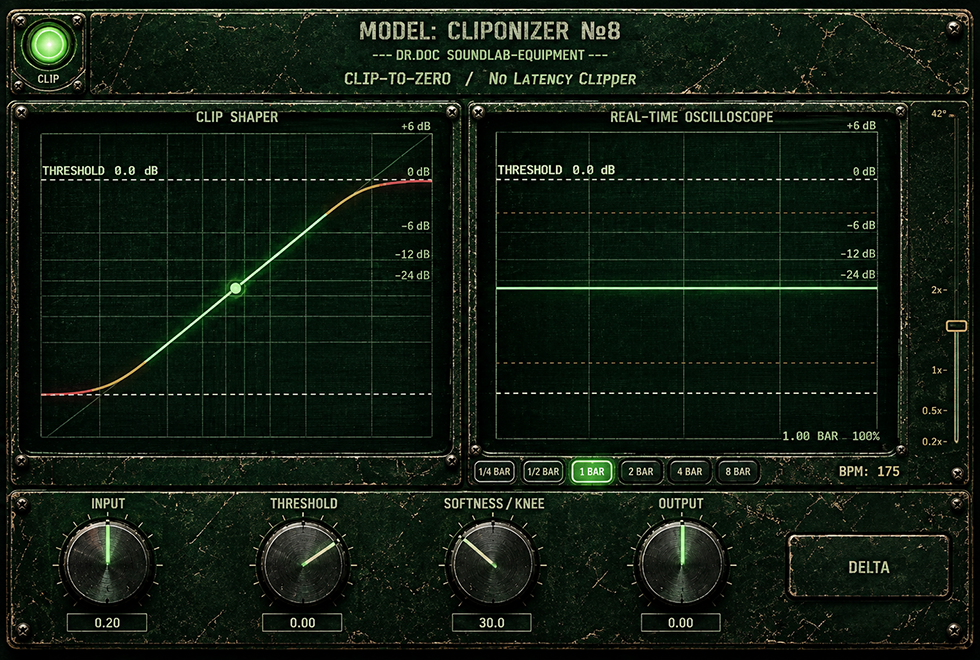
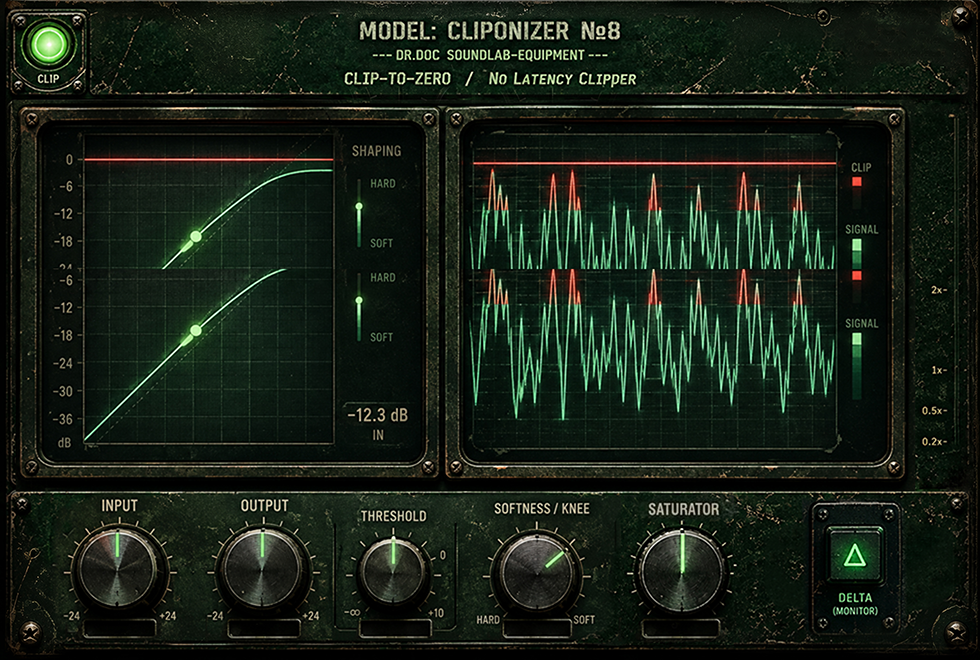
36new

Changed region(s): [[0.0, 0.0, 1.0, 1.0]]

diff --git a/WebUI/style.css b/WebUI/style.css
@@ -74,8 +74,8 @@ html, body {
     border-radius: 50%;
     background: var(--ledOff);
     border: 1.5px solid rgba(255,255,255,0.25);
-    top: -12px;
-    left: -1px;
+    top: -4px;
+    left: 1px;
     position: relative;
 }
 
@@ -104,18 +104,35 @@ html, body {
   flex: 1;
   min-height: 0;
   display: flex;
-  gap: 12px;
+  gap: 35px;
   margin-top: 35px;
 }
-
 .scopePanel {
-  position: relative;
-  flex: 1;
-  min-width: 0;
-  background: #0c0f0cc2;
-  border: 1.5px solid var(--metalEdge);
-  border-radius: 6px;
-  padding: 26px;
+    position: relative;
+    /* flex: 1; */
+    min-width: 0;
+    background: #0c0f0cc2;
+    border: 1.5px solid var(--metalEdge);
+    border-radius: 20px;
+    padding: 26px;
+    height: 338px;
+    width: 383px;
+    top: 6px;
+    left: 27px;
+}
+
+.scopePanel2 {
+    position: relative;
+    /* flex: 1; */
+    min-width: 0;
+    background: #0c0f0cc2;
+    border: 1.5px solid var(--metalEdge);
+    border-radius: 20px;
+    padding: 26px;
+    height: 338px;
+    width: 427px;
+    top: 6px;
+    left: 29px;
 }
 
 .panelTitle {
@@ -148,7 +165,6 @@ canvas {
   position: absolute;
   left: 26px;
   right: 26px;
-  bottom: 2px;
   height: 14px;
   display: flex;
   align-items: center;
@@ -195,11 +211,14 @@ canvas {
 /* ZOOM STRIP                                                        */
 /* ---------------------------------------------------------------- */
 #zoomStrip {
-  flex: 0 0 34px;
-  display: flex;
-  flex-direction: column;
-  align-items: center;
-  padding: 8px 0;
+    /* flex: 0 0 34px; */
+    display: flex;
+    align-items: center;
+    /* padding: 8px 0; */
+    left: 46px;
+    position: relative;
+    flex-direction: column;
+    height: 348px;
 }
 #zoomSlider {
   flex: 1;
@@ -244,6 +263,73 @@ canvas {
   position: relative;
   cursor: ns-resize;
 }
+
+#knobInput {
+    left: 29px;
+    top: 4px;
+    transform: scale(1.2);
+}
+
+#knobOutput {
+    left: 13px;
+    top: 5px;
+    transform: scale(1.2);
+}
+
+#knobThreshold {
+    left: -16px;
+    top: 5px;
+    transform: scale(0.9);
+}
+
+#knobSoftness {
+    left: -32px;
+    top: 8px;
+    transform: scale(1.2);
+}
+
+#knobSaturator {
+    left: -47px;
+    top: 5px;
+    transform: scale(1.2);
+}
+
+#valInput {
+    left: 29px;
+    top: 8px;
+    transform: scale(1.2);
+    position: relative;
+}
+
+#valOutput {
+    left: 13px;
+    top: 9px;
+    transform: scale(1.2);
+    position: relative;
+}
+
+#valThreshold {
+    left: -16px;
+    top: 9px;
+    transform: scale(1.2);
+    position: relative;
+}
+
+#valSoftness {
+    left: -32px;
+    top: 9px;
+    transform: scale(1.2);
+    position: relative;
+}
+
+#valSaturator {
+    left: -47px;
+    top: 9px;
+    transform: scale(1.2);
+    position: relative;
+}
+
+
 .knobImg {
   width: 100%;
   height: 100%;
@@ -269,9 +355,10 @@ canvas {
   padding: 0;
 }
 #deltaButton img {
-    width: 100%;
+    width: 90%;
     /* height: 100%; */
     pointer-events: none;
-    top: -31px;
+    top: -35px;
     position: relative;
+    left: -32px;
 }

diff --git a/WebUI/ui.html b/WebUI/ui.html
@@ -28,7 +28,7 @@
         <div class="thresholdLabel" id="shaperThresholdLabel"></div>
       </div>
 
-      <div class="scopePanel" id="scopePanelEl">
+      <div class="scopePanel2" id="scopePanelEl">
         <div class="panelTitle">REAL-TIME OSCILLOSCOPE</div>
         <canvas id="scopeCanvas"></canvas>
         <div class="thresholdLabel" id="scopeThresholdLabel"></div>
@@ -54,24 +54,29 @@
 
     <div id="bottomRow">
       <div class="knobCell">
-        <div class="knobLabel">INPUT</div>
+        <div class="knobLabel"><!-- INPUT--></div>  
         <div class="knob" id="knobInput" data-param="input"><img class="knobImg" src="Resources/knob.png" draggable="false"></div>
         <div class="knobValue" id="valInput">0.0 dB</div>
       </div>
       <div class="knobCell">
-        <div class="knobLabel">THRESHOLD</div>
+        <div class="knobLabel"><!-- OUTPUT--></div>
+        <div class="knob" id="knobOutput" data-param="output"><img class="knobImg" src="Resources/knob.png" draggable="false"></div>
+        <div class="knobValue" id="valOutput">0.0 dB</div>
+      </div>
+      <div class="knobCell">
+        <div class="knobLabel"><!-- THRESHOLD--></div>
         <div class="knob" id="knobThreshold" data-param="threshold"><img class="knobImg" src="Resources/knob.png" draggable="false"></div>
         <div class="knobValue" id="valThreshold">0.0 dB</div>
       </div>
       <div class="knobCell">
-        <div class="knobLabel">SOFTNESS / KNEE</div>
+        <div class="knobLabel"><!-- SOFTNESS / KNEE--></div>
         <div class="knob" id="knobSoftness" data-param="softness"><img class="knobImg" src="Resources/knob.png" draggable="false"></div>
         <div class="knobValue" id="valSoftness">20.0 %</div>
       </div>
       <div class="knobCell">
-        <div class="knobLabel">OUTPUT</div>
-        <div class="knob" id="knobOutput" data-param="output"><img class="knobImg" src="Resources/knob.png" draggable="false"></div>
-        <div class="knobValue" id="valOutput">0.0 dB</div>
+        <div class="knobLabel"><!-- Saturator--></div>
+        <div class="knob" id="knobSaturator" data-param="saturator"><img class="knobImg" src="Resources/knob.png" draggable="false"></div>
+        <div class="knobValue" id="valSaturator">0.0 dB</div>
       </div>
       <div class="knobCell" id="cellDelta">
         <button id="deltaButton"><img id="deltaImg" src="Resources/DeltaOff.png" draggable="false"></button>
